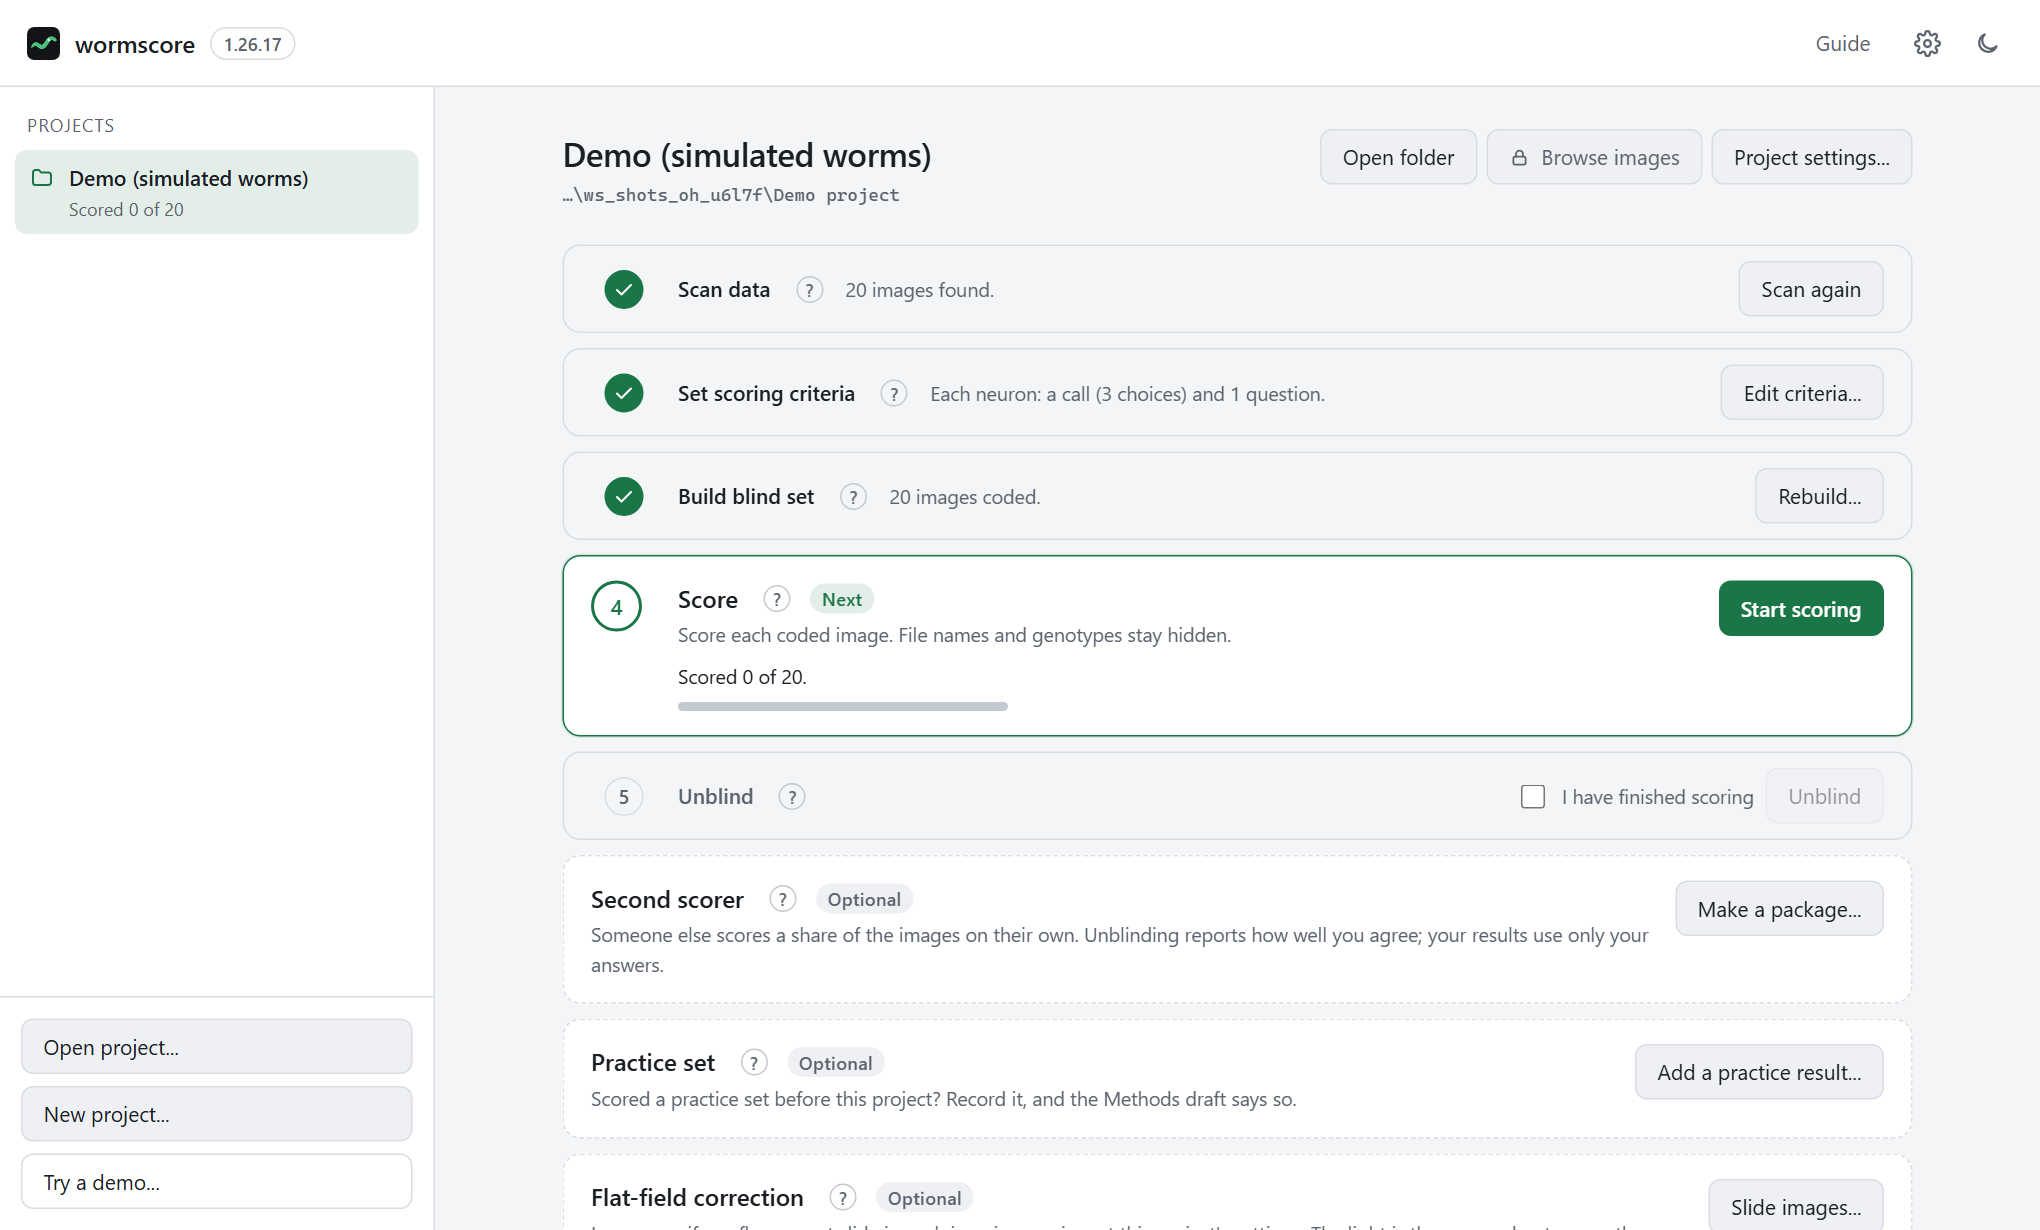
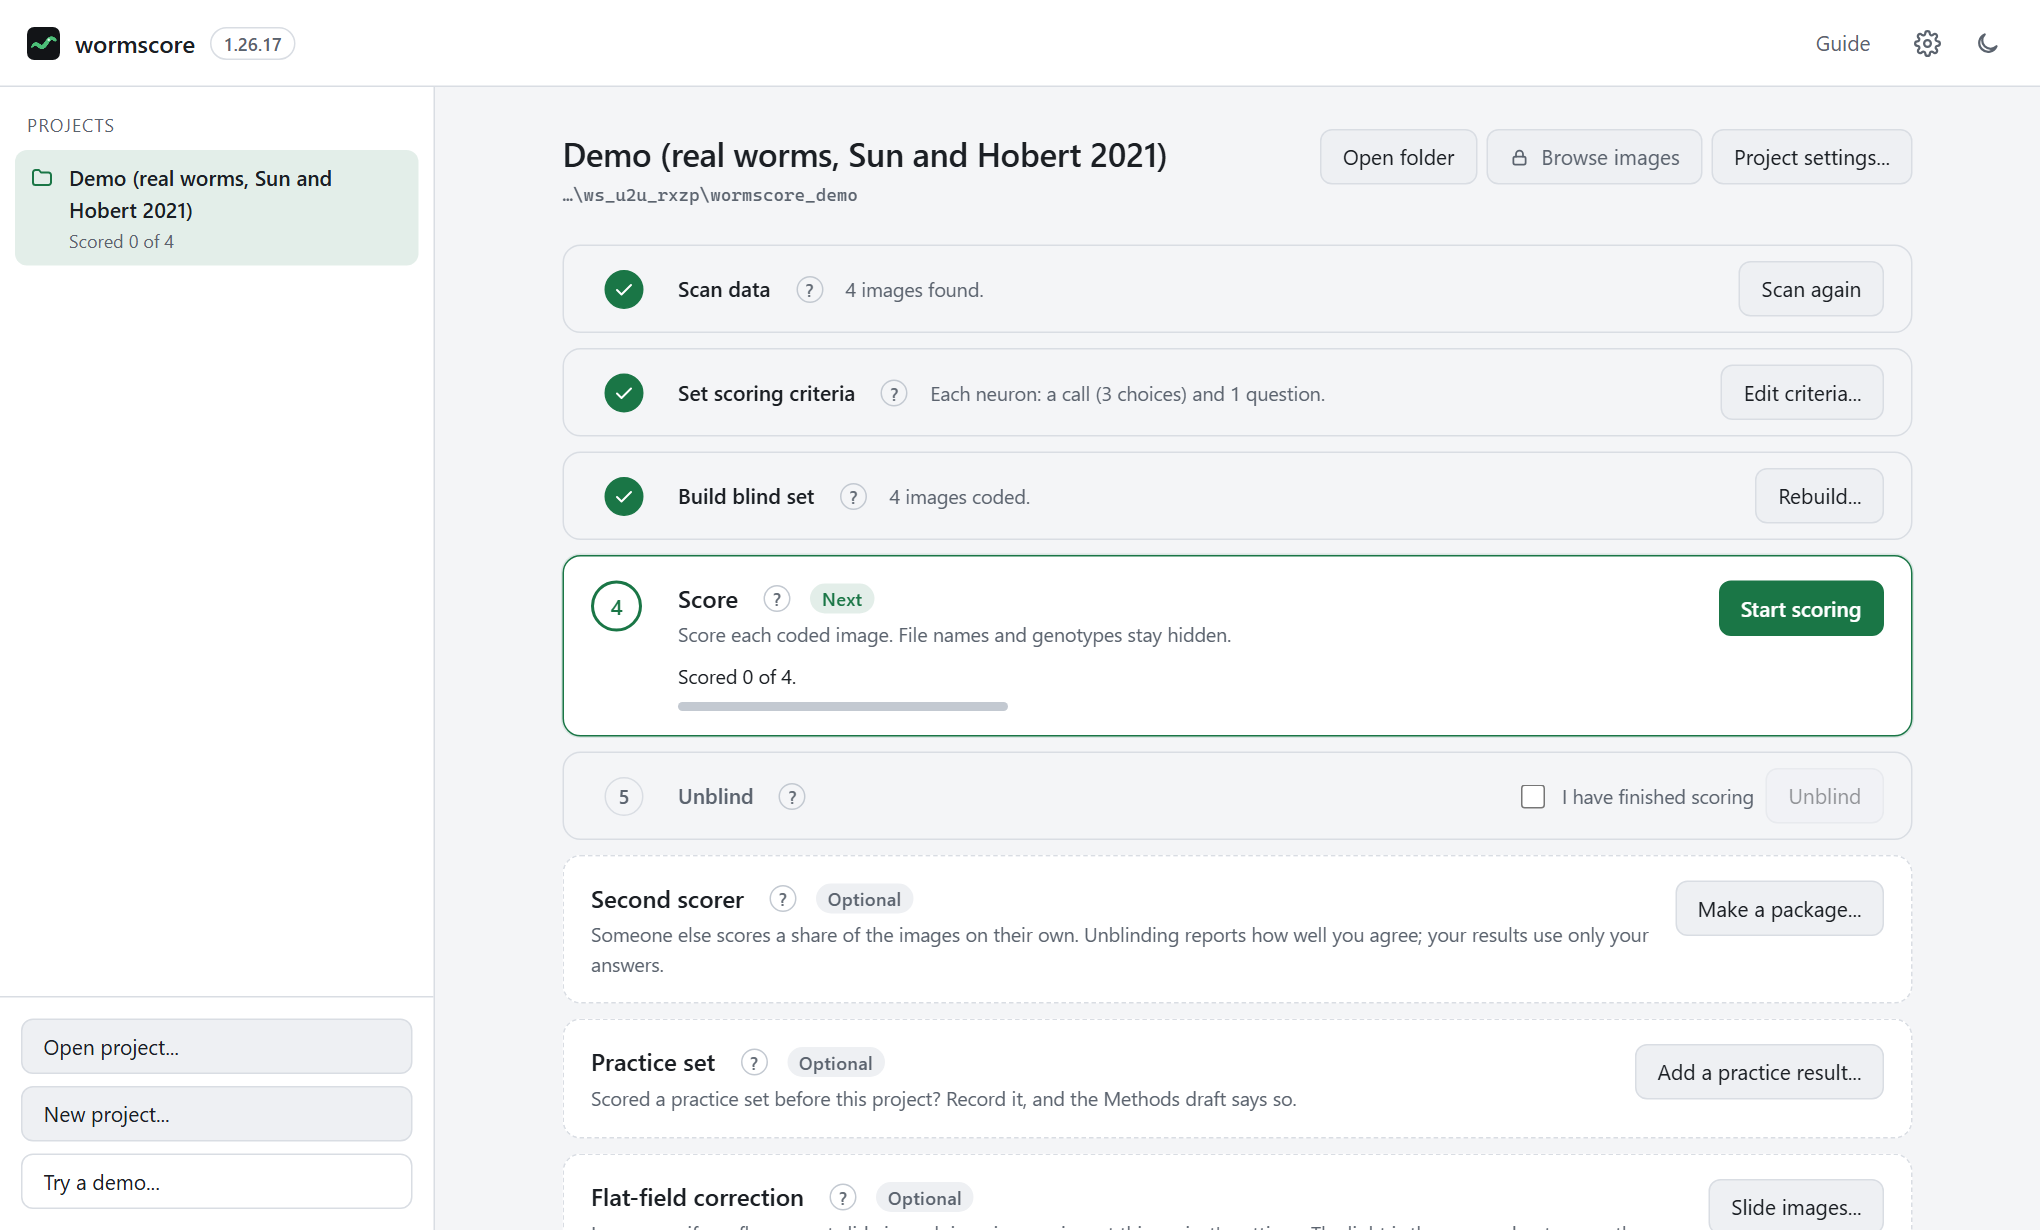
README: the scoring screenshot is a real worm with brightfield on; the home page follows the reader's theme
The scoring image is from the real-worm demo (Sun and Hobert 2021, Zenodo 5602160, CC BY 4.0), credited
under it. The home page has a light and a dark screenshot, chosen by the reader's GitHub theme.

diff --git a/README.md b/README.md
@@ -24,8 +24,9 @@ statistics. You score coded images without knowing the genotype; wormscore keeps
 the cells, and writes the tables, the tests and a draft Methods paragraph when you unblind.
 
 <p align="center">
-  <img src="https://raw.githubusercontent.com/arjunkai/wormscore/main/docs/img/scoring.png" alt="The scoring page: a coded image, with the questions for each neuron on the right" width="820">
+  <img src="https://raw.githubusercontent.com/arjunkai/wormscore/main/docs/img/scoring.png" alt="The scoring page: a coded image of a worm head with brightfield on, and the questions for each cell on the right" width="820">
 </p>
+<p align="center"><sub>The scoring page. The image is from the real-worm demo: an L1 head with a GFP reporter, from Sun and Hobert 2021 (<a href="https://doi.org/10.5281/zenodo.5602160">Zenodo 5602160</a>, CC BY 4.0).</sub></p>
 
 - **Blind:** every image gets a random code. Genotypes and file names stay in a sealed key until you
   finish scoring.
@@ -90,7 +91,10 @@ L1 heads from [Sun and Hobert 2021](https://doi.org/10.1038/s41586-021-04071-4)
 ## How a project goes
 
 <p align="center">
-  <img src="https://raw.githubusercontent.com/arjunkai/wormscore/main/docs/img/home.png" alt="The home page: a project with its five steps" width="820">
+  <picture>
+    <source media="(prefers-color-scheme: dark)" srcset="https://raw.githubusercontent.com/arjunkai/wormscore/main/docs/img/home-dark.png">
+    <img src="https://raw.githubusercontent.com/arjunkai/wormscore/main/docs/img/home.png" alt="The home page: a project with its five steps" width="820">
+  </picture>
 </p>
 
 1. **Scan data:** lists every image with its metadata and which channel is which.
